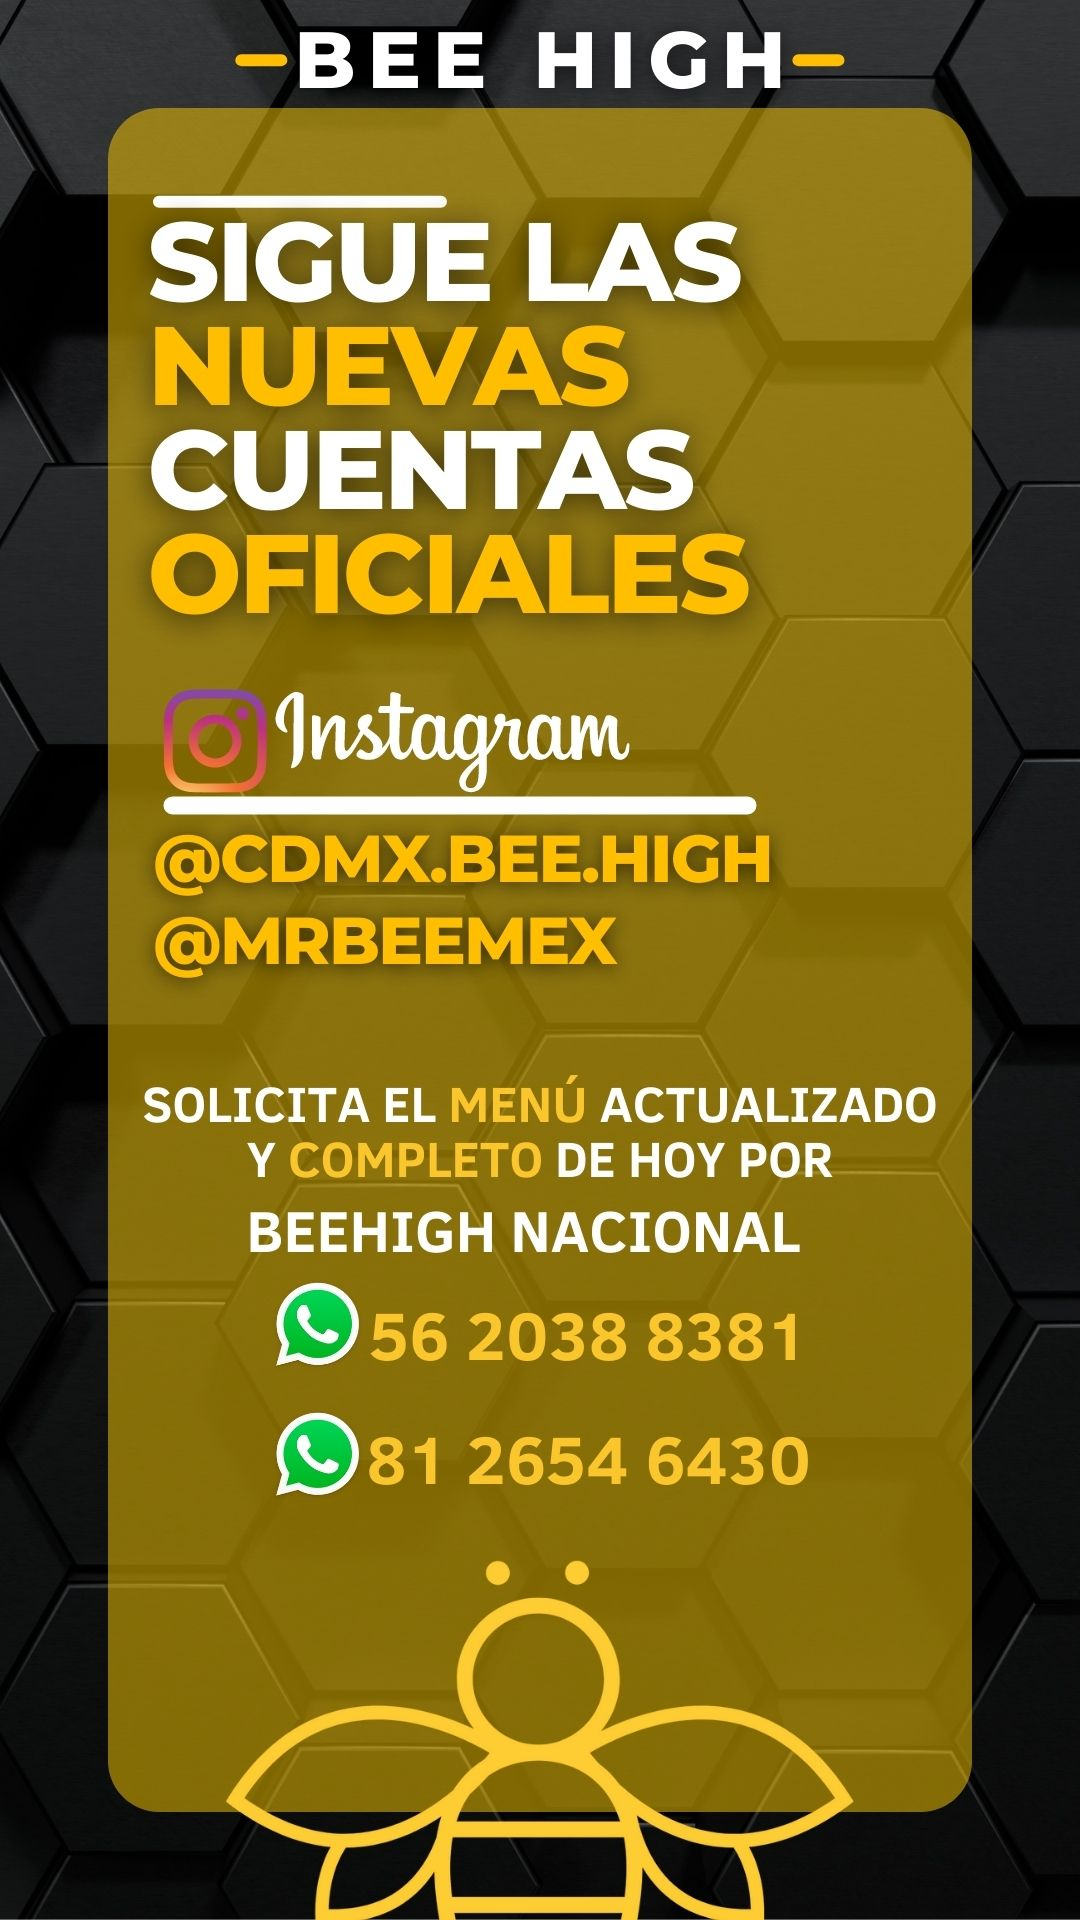
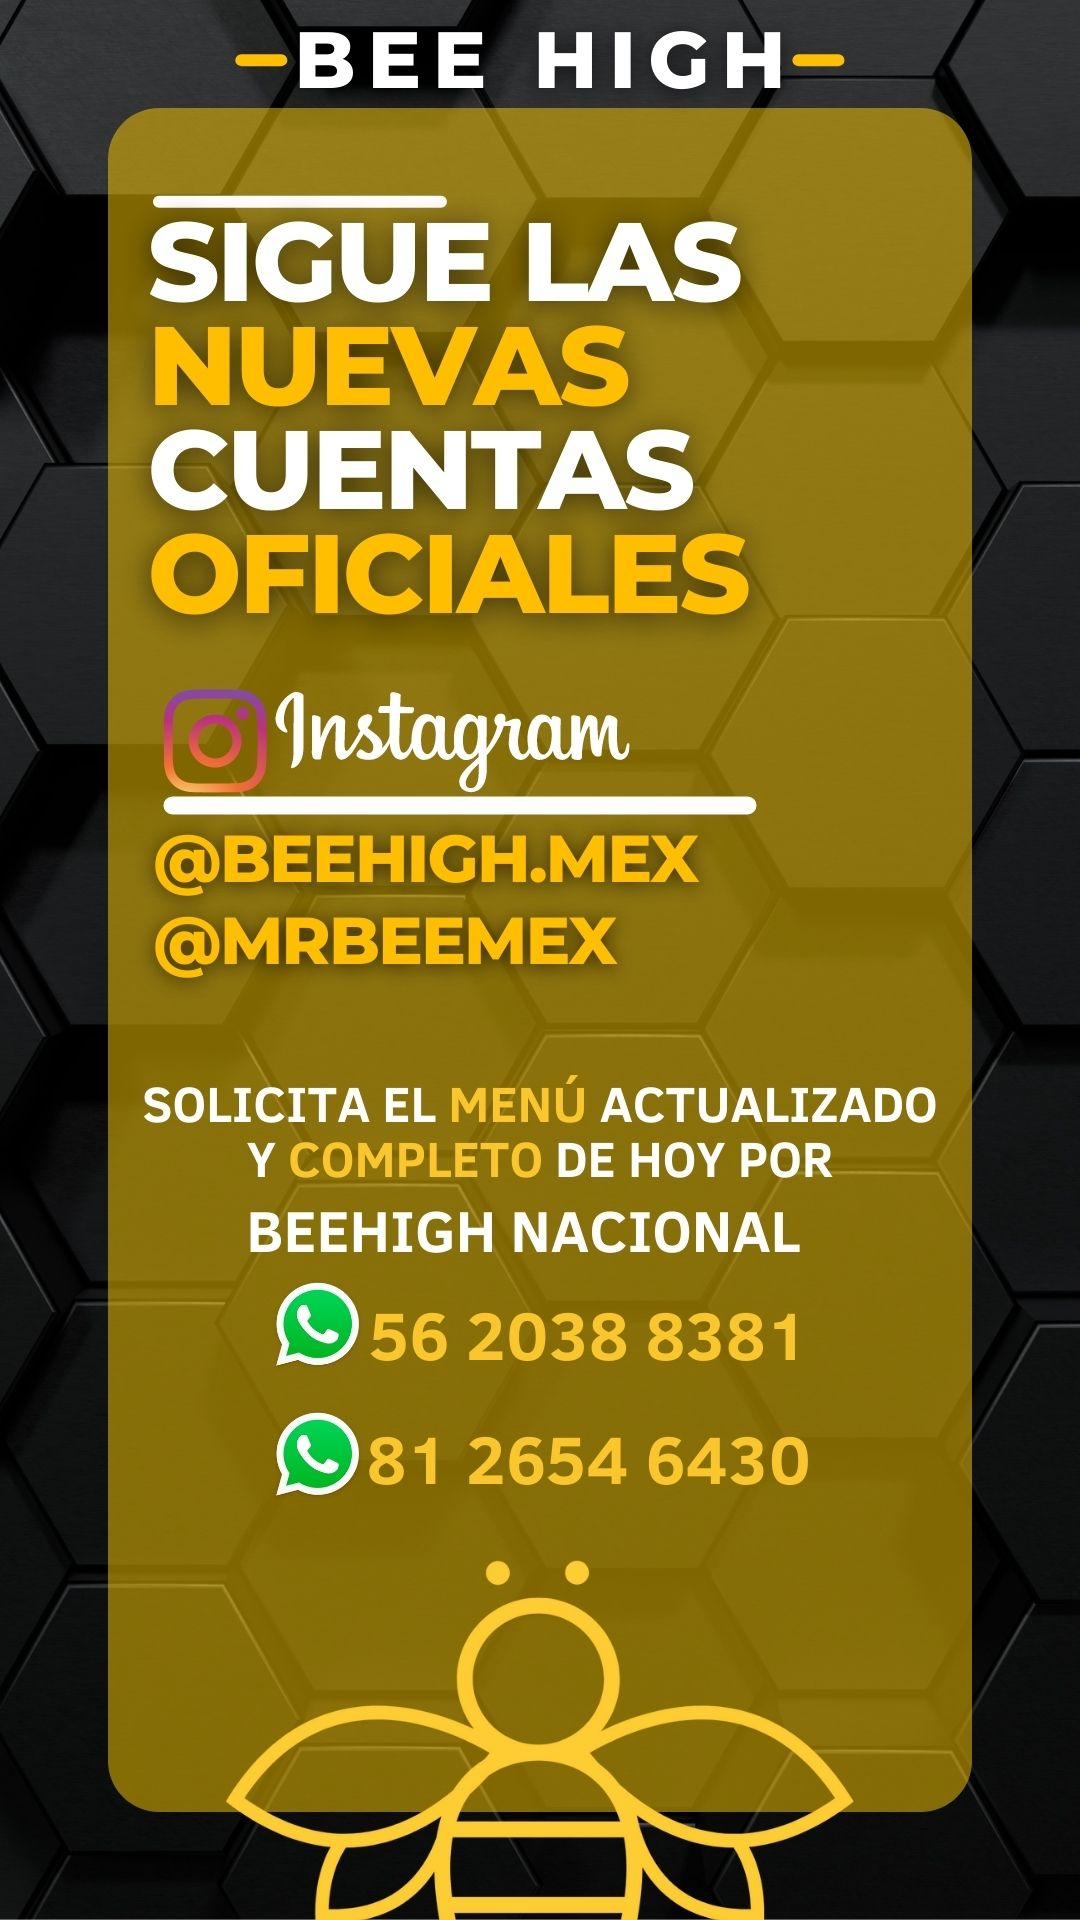
add

Changed region(s): [[0.2139, 0.4375, 0.7333, 0.4688]]

diff --git a/home.html b/home.html
@@ -310,7 +310,7 @@
                     <a href="https://t.me/+cE026hRf1l4wNjcx"target="_blank" ><h3 class="texto-naranja">TELEGRAM INFO</h3><i class="fa-brands fa-telegram"></i></a>
                     <a href="https://twitter.com/mrbeemx?t=CeUT-ctIkZaQJYis7xOjWg&s=09"target="_blank" ><h3 class="texto-naranja">TWITTER</h3><i class="fa-brands fa-twitter"></i></a>
                     <a href="https://www.youtube.com/channel/UCYLG9jkRuTTwDURQVmd6hVA " target="_blank"><h3 class="texto-naranja">YOUTUBE</h3><i class="fa-brands fa-youtube"></i></a>
-                    <a href="https://instagram.com/beehighoficialmx?igshid=MTIzZWQxMDU="target="_blank" ><h3 class="texto-naranja">INSTAGRAM</h3><i class="fa-brands fa-square-instagram"></i></a>
+                    <a href="https://instagram.com/beehigh.mex?igshid=MTIzZWQxMDU="target="_blank" ><h3 class="texto-naranja">INSTAGRAM</h3><i class="fa-brands fa-square-instagram"></i></a>
                     <a href="https://www.facebook.com/bee.high.94?mibextid=ZbWKwL"target="_blank" ><h3 class="texto-naranja">FACEBOOK</h3><i class="fa-brands fa-facebook"></i></a>
                 </div>
                 
